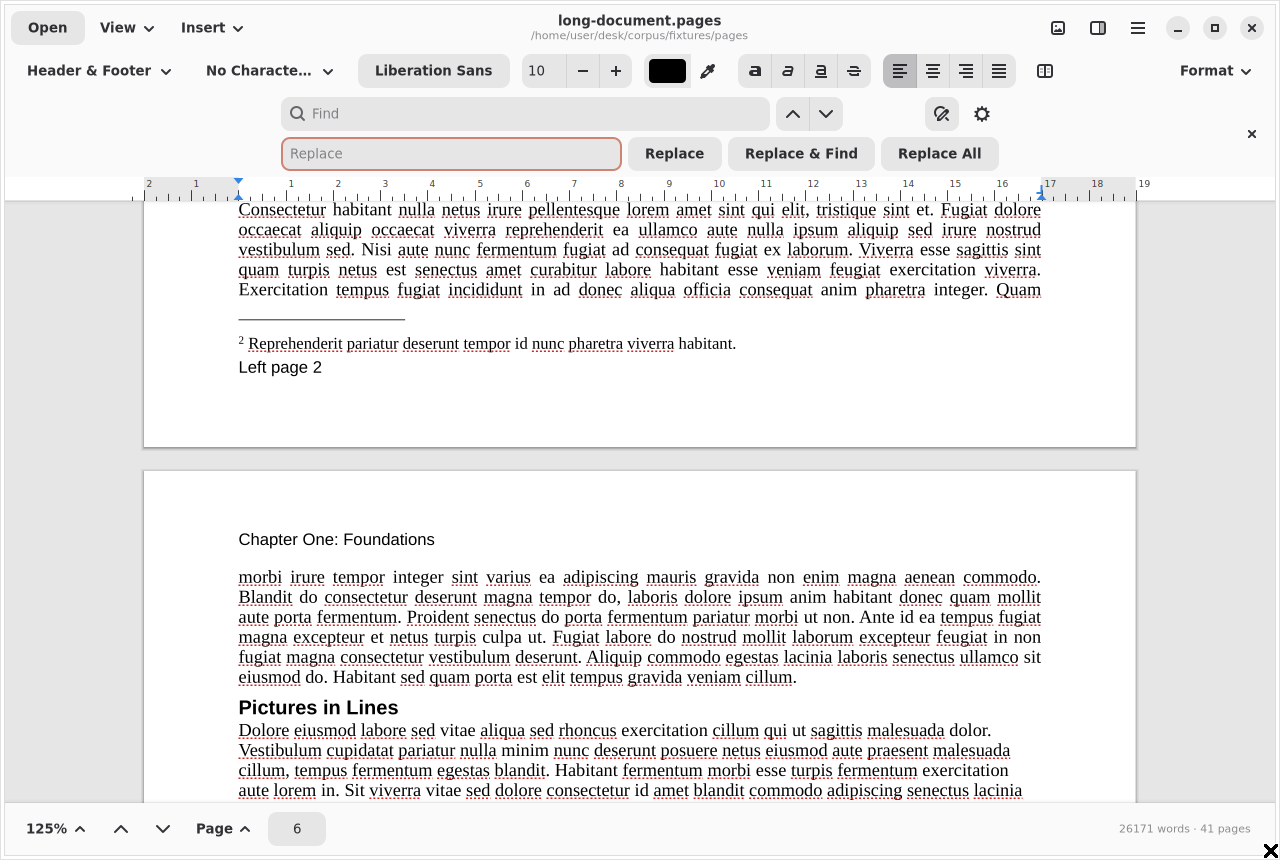
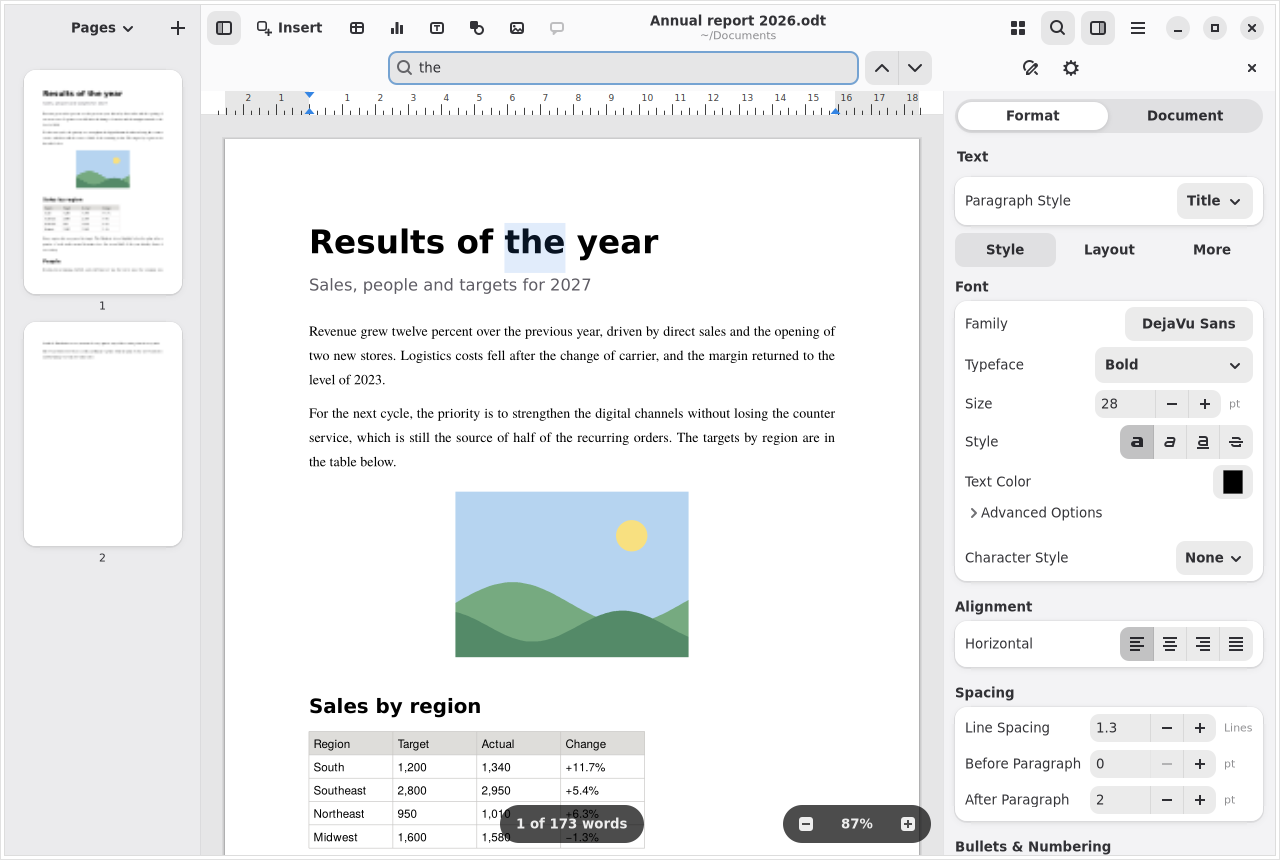
Show the M+ window in the screenshots of the metainfo (B-011)
Four captures of Desk Writer in the M+ window replace the two old ones:
the Format pane, the Fonts popover, Find and the dark style, with
captions in English and Brazilian Portuguese. The description says
what is now done and what is still to come.

Claude-Session: https://claude.ai/code/session_01NiPLVTYFyMZ3yBXDkVuvBS

diff --git a/docs/project-log.md b/docs/project-log.md
@@ -782,6 +782,27 @@ matrix rows done on 9 November, before the change of target.
   characters on, takes it away with None, and checks that the popover of
   the text color has no None.
 
+### 17 November: Screenshots of the new window in the metainfo (B-011)
+
+- The owner asked for the screenshots only, leaving the final validation
+  on the Mac for later.
+- *What was done:* four captures of Desk Writer in the M+ window replace
+  the two old ones in data/screenshots: a report with the Format pane
+  (the default), the Fonts popover opened from the Family row, Find in
+  the header bar, and the same window in the dark style. Each has a
+  caption in English and in Brazilian Portuguese. The description of the
+  metainfo now says the window with tabs, the Format pane and automatic
+  saving with versions are done, and that comments and change tracking,
+  templates, Word files and printing are still to come.
+- *How:* the app ran in the GNOME 51 chroot on an X server without a
+  window manager, with the accent forced to blue, and was driven by its
+  own actions over D-Bus and by the keyboard; the sample document was
+  made for the purpose and has no Apple material.
+- *Why there is no Colors capture:* without a window manager its popover
+  falls outside the window, and a capture of half a popover is worse
+  than none.
+- *Consequences:* B-011 is closed. AppStream validation passes.
+
 ## Decisions, with their reasons and consequences
 
 Ids `D-nnn` and `R-nnn` are those of [decisions.md](decisions.md).

diff --git a/HISTORY.md b/HISTORY.md
@@ -8,6 +8,8 @@ is on the [progress dashboard](https://brahm.github.io/desk/painel/).
 
 ## Changes since 0.7.0 (unreleased)
 
+* Changed: The screenshots of Desk Writer in its metainfo show the new
+  window, with the Format pane, Fonts, Find and the dark style.
 * Added: None in the Colors popover takes away a background, a fill, a
   line or a shadow.
 * Added: The Colors popover shows the colors the document already
